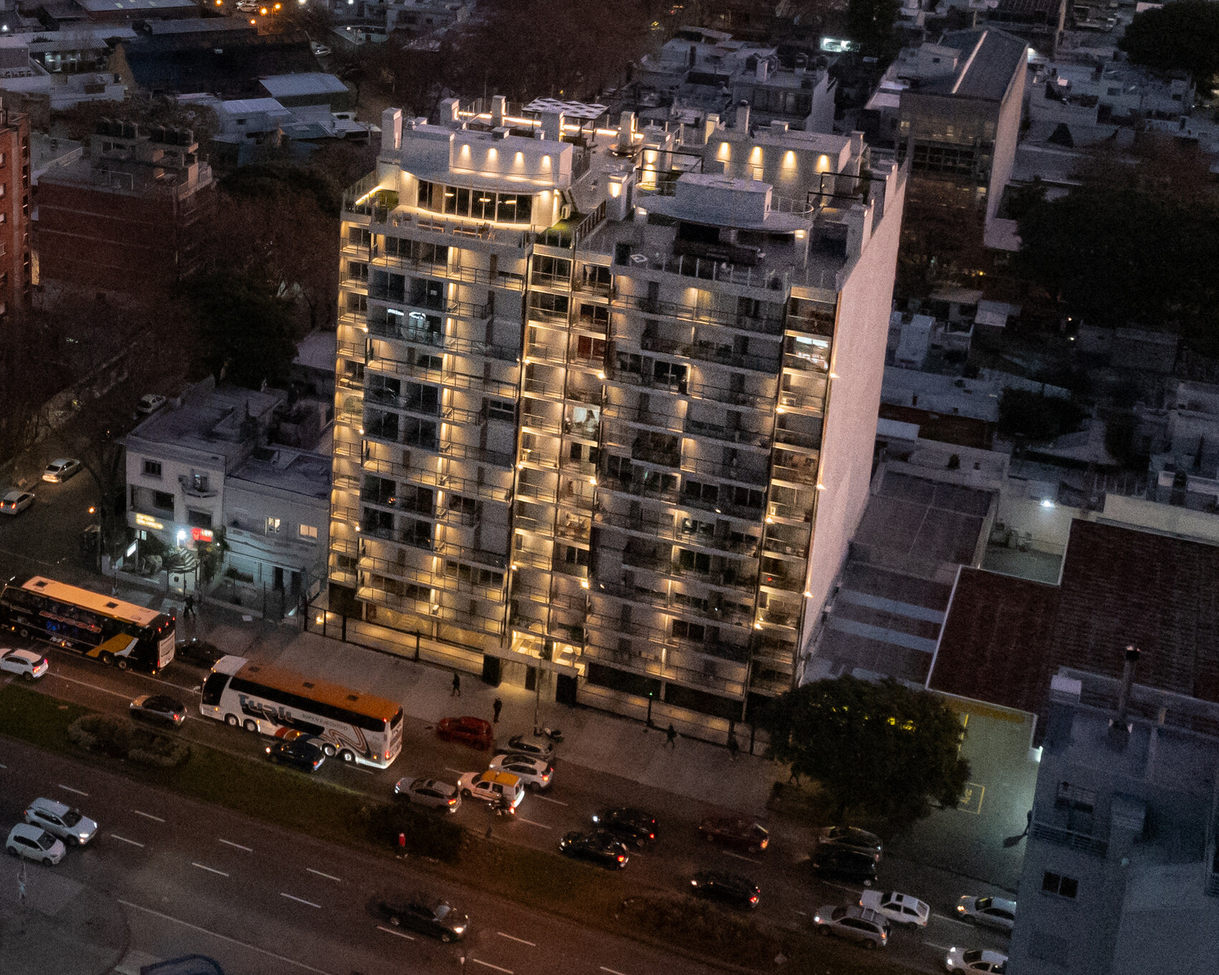
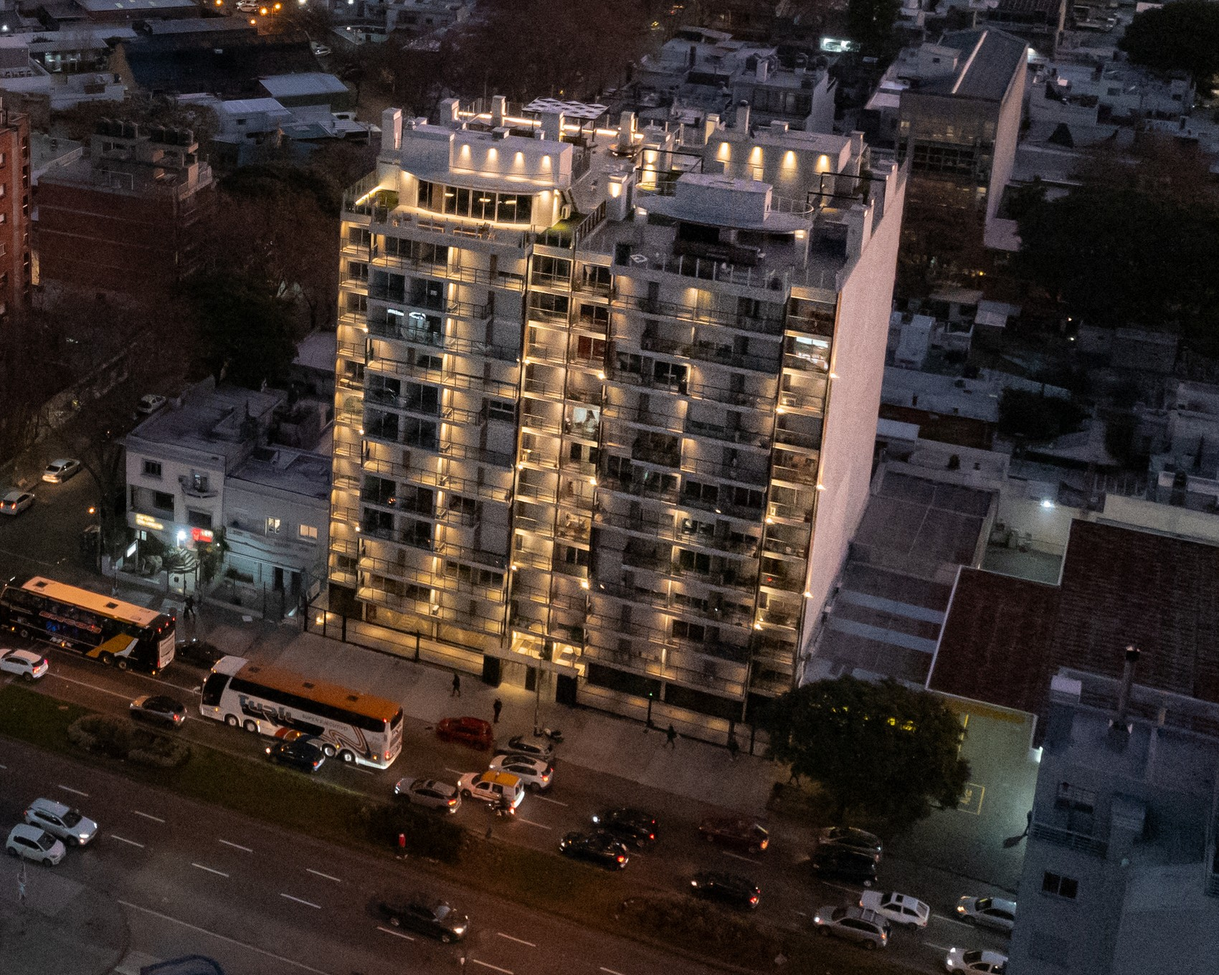
Commit

diff --git a/sin-whatsapp.html b/sin-whatsapp.html
@@ -3,6 +3,7 @@
 <head>
   <meta charset="UTF-8">
   <meta name="viewport" content="width=device-width, initial-scale=1.0">
+  <meta name="robots" content="noindex, nofollow">
   <title>AVIT — Un nuevo proyecto residencial sobre Av. Italia | Foquier Desarrollos</title>
   <meta name="description" content="AVIT, de Foquier Desarrollos: propuesta residencial contemporánea sobre Avenida Italia, Montevideo. Viví o invertí bajo la ley de vivienda promovida. Finalización de obra 12/28.">
   <meta property="og:title" content="AVIT — Foquier Desarrollos">
@@ -40,7 +41,7 @@
           <li class="nav__item"><a href="#inversion" class="nav__link">Inversión</a></li>
           <li class="nav__item"><a href="#nosotros" class="nav__link">Sobre Nosotros</a></li>
         </ul>
-        <a href="https://wa.me/59893990474?text=Hola%2C%20quiero%20m%C3%A1s%20informaci%C3%B3n%20sobre%20AVIT" target="_blank" rel="noopener" class="btn btn--nav">Consultar</a>
+        
       </nav>
 
       <button class="burger" id="burger" aria-label="Abrir menú" aria-expanded="false">
@@ -64,7 +65,7 @@
       <h1 class="hero__title">Un nuevo proyecto residencial sobre <strong>Av.&nbsp;Italia</strong> de <img src="assets/brand/foquier-blanco.svg" alt="Foquier Desarrollos" class="hero__logo-inline hero__logo-inline--blanco"><img src="assets/brand/foquier-teal.svg" alt="Foquier Desarrollos" class="hero__logo-inline hero__logo-inline--teal"></h1>
       <div class="hero__ctas">
         <a href="#proyecto" class="btn btn--solid">Conocé el proyecto</a>
-        <a href="https://wa.me/59893990474?text=Hola%2C%20quiero%20m%C3%A1s%20informaci%C3%B3n%20sobre%20AVIT" target="_blank" rel="noopener" class="btn btn--ghost">Consultar por WhatsApp</a>
+        
       </div>
     </div>
     <a href="#proyecto" class="hero__scroll" aria-label="Bajar">
@@ -290,7 +291,7 @@
     <div class="container">
       <h2 class="band__text reveal">Una oportunidad destacada para acceder a AVIT con beneficios exclusivos de prelanzamiento</h2>
       <div class="band__ctas reveal reveal--delay-1">
-        <a href="https://wa.me/59893990474?text=Hola%2C%20quiero%20acceder%20a%20los%20beneficios%20de%20prelanzamiento%20de%20AVIT" target="_blank" rel="noopener" class="btn btn--white">Consultar por WhatsApp</a>
+        
         <a href="mailto:info@alvaresbuzio.com.uy?subject=Consulta%20AVIT%20—%20Prelanzamiento" class="btn btn--ghost-white">Escribinos por email</a>
       </div>
     </div>
@@ -667,9 +668,7 @@
     <button class="lightbox__arrow lightbox__arrow--next" id="lbNext" aria-label="Siguiente">&#8250;</button>
   </div>
 
-  <a href="https://wa.me/59893990474?text=Hola%2C%20quiero%20m%C3%A1s%20informaci%C3%B3n%20sobre%20AVIT" target="_blank" rel="noopener" class="whatsapp-fab" aria-label="WhatsApp">
-    <svg viewBox="0 0 32 32" fill="currentColor" aria-hidden="true"><path d="M16 2.9C8.8 2.9 2.9 8.8 2.9 16c0 2.6.8 5.1 2.2 7.2L3 29.2l6.2-2c2 1.3 4.4 2 6.8 2 7.2 0 13.1-5.9 13.1-13.1S23.2 2.9 16 2.9zm0 23.9c-2.2 0-4.3-.6-6.1-1.8l-.4-.3-3.7 1.2 1.2-3.6-.3-.4a10.7 10.7 0 1 1 9.3 4.9zm5.9-8c-.3-.2-1.9-1-2.2-1.1-.3-.1-.5-.2-.7.2-.2.3-.8 1.1-1 1.3-.2.2-.4.2-.7.1-.3-.2-1.4-.5-2.6-1.6-1-.9-1.6-2-1.8-2.3-.2-.3 0-.5.1-.7l.5-.6c.2-.2.2-.3.3-.6.1-.2 0-.4 0-.6l-1-2.4c-.3-.6-.5-.5-.7-.5h-.6c-.2 0-.6.1-.9.4-.3.3-1.1 1.1-1.1 2.7s1.2 3.1 1.3 3.3c.2.2 2.3 3.5 5.5 4.9.8.3 1.4.5 1.9.7.8.2 1.5.2 2.1.1.6-.1 1.9-.8 2.2-1.5.3-.8.3-1.4.2-1.5-.1-.2-.3-.3-.6-.4z"/></svg>
-  </a>
+  
 
   <script src="js/main.js"></script>
 </body>

diff --git a/js/main.js b/js/main.js
@@ -154,7 +154,7 @@
     '<div class="lightbox__info-grid">' +
     '<p><strong>Forma de pago en obra:</strong> 30% contado, 60% en cuotas trimestrales durante la obra y 10% a la entrega de la unidad.</p>' +
     '<p><strong>Comisión inmobiliaria:</strong> 3% + IVA, pagadera al momento del compromiso.</p>' +
-    '<p><strong>Gastos de ocupación:</strong> 4%, correspondientes a gastos de conexiones y alojamiento, reglamento de copropiedad y plano de mensura.</p>' +
+    '<p><strong>Gastos de ocupación:</strong> 4%, correspondientes a gastos de conexiones y alhajamiento, reglamento de copropiedad y plano de mensura.</p>' +
     '</div></div></div>';
   let lbList = [];
   let lbIndex = 0;

diff --git a/css/styles.css b/css/styles.css
@@ -326,6 +326,7 @@ button { font-family: var(--font); background: none; border: 0; cursor: pointer;
   overflow: hidden;
   box-shadow: var(--shadow);
 }
+.media picture { display: block; width: 100%; height: 100%; }
 .media img {
   width: 100%; height: 100%;
   object-fit: cover;
@@ -781,8 +782,12 @@ button { font-family: var(--font); background: none; border: 0; cursor: pointer;
 
   .nav {
     position: fixed;
-    inset: 0;
+    top: 0; right: 0; bottom: 0; left: 0;
+    width: 100%;
+    height: 100%;
+    height: 100dvh;
     z-index: 100;
+    display: flex;
     flex-direction: column;
     justify-content: flex-start;
     gap: 0;
